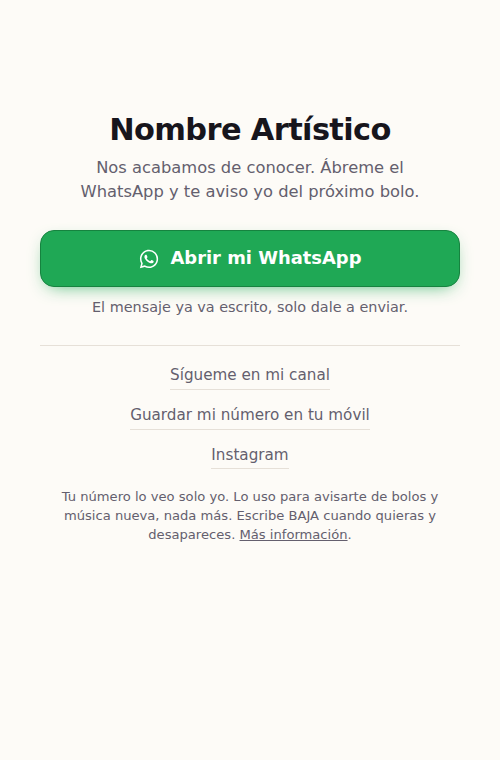
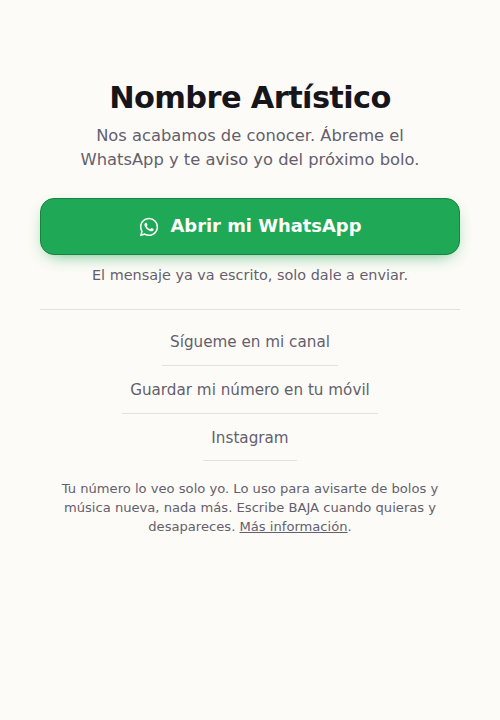
La landing y la biografía de Instagram entran en el sistema, con su propio conteo
El público que ya tiene no estaba usando esto. Ahora la landing publicada y la
biografía de Instagram llevan a la misma página con un código propio, así que se
puede comparar de dónde llega la gente. El de Instagram importa especialmente:
quien lo pulsa aterriza dentro del navegador de Instagram, donde un enlace a
wa.me no abre la aplicación y la conversión es casi cero; la página lo detecta y
ofrece el número para copiar.

Y los enlaces de segundo plano pasan a 44 px de alto: se pulsan con el pulgar,
de pie y sin mirar, que es como se usa esto de verdad.

Claude-Session: https://claude.ai/code/session_01AHqWHcwNA4Erp9EJ35SaMY

Changed region(s): [[0.06, 0.1222, 0.93, 0.4278], [0.12, 0.4583, 0.87, 0.7639]]

diff --git a/contacto-artista/web/estilo.css b/contacto-artista/web/estilo.css
@@ -84,27 +84,32 @@ header { text-align: center; margin-bottom: 26px; }
    compite. Si compitiera, una parte del público guardaría el contacto sin
    escribir, que es justo el caso en que ella no se lleva nada. */
 .segundo-plano {
-  margin-top: 26px;
-  padding-top: 18px;
+  margin-top: 22px;
+  padding-top: 10px;
   border-top: 1px solid var(--linea);
   display: flex;
   flex-direction: column;
-  gap: 14px;
+  gap: 2px;
   align-items: center;
 }
 
+/* Los enlaces de segundo plano siguen siendo secundarios, pero se pueden pulsar
+   con el pulgar: 44 px de alto es el mínimo para acertar sin mirar, que es como
+   se usa esto en un pasillo a oscuras. */
 a.suave {
   color: var(--suave);
   text-decoration: none;
   font-size: 0.95rem;
+  padding: 11px 8px;
+  display: inline-flex;
+  align-items: center;
+  min-height: 44px;
   border-bottom: 1px solid var(--linea);
-  padding-bottom: 2px;
-  min-height: 24px;
 }
 
 a.suave:hover { color: var(--tinta); }
 
-#secundarios { display: flex; flex-direction: column; gap: 14px; align-items: center; }
+#secundarios { display: flex; flex-direction: column; gap: 2px; align-items: center; }
 
 a.boton {
   display: flex;

diff --git a/contacto-artista/herramientas/construir.js b/contacto-artista/herramientas/construir.js
@@ -163,6 +163,10 @@ function escribirQR(config, salida) {
     const url = config.urlDeSoporte(soporte.clave);
     urls.push({ soporte, url });
 
+    // Los soportes de tipo "enlace" (el botón de su web, la biografía de
+    // Instagram) no se imprimen: son una URL que se pega en otro sitio.
+    if (soporte.tipo === 'enlace') continue;
+
     // Los soportes NFC no llevan QR propio: el tag guarda la URL directamente.
     // Pero se genera igual, porque en la práctica cada pieza NFC acaba llevando
     // un QR impreso al lado para quien no tenga NFC o no sepa usarlo.
@@ -188,6 +192,8 @@ function escribirQR(config, salida) {
     ...urls.map(({ soporte, url }) =>
       soporte.titulo + ' (' + soporte.tipo.toUpperCase() + ')\n  ' + url + '\n'
     ),
+    'Los de tipo ENLACE no se imprimen: se pegan donde toque (el botón de la web,',
+    'la biografía de Instagram). Los de tipo NFC se graban en el tag.',
     'Cómo se graban los NFC: docs/04-nfc.md'
   ].join('\n');
   fs.writeFileSync(path.join(carpeta, 'urls.txt'), texto, 'utf8');

diff --git a/contacto-artista/config.js b/contacto-artista/config.js
@@ -67,7 +67,12 @@ const config = {
     { clave: 'merch',    titulo: 'Mesa de merchandising',        tipo: 'qr' },
     { clave: 'pulsera',  titulo: 'Pulsera NFC',                  tipo: 'nfc' },
     { clave: 'chapa',    titulo: 'Chapa o pegatina NFC',         tipo: 'nfc' },
-    { clave: 'funda',    titulo: 'NFC en la funda del móvil',    tipo: 'nfc' }
+    { clave: 'funda',    titulo: 'NFC en la funda del móvil',    tipo: 'nfc' },
+
+    // Estos no llevan QR: son enlaces. Se listan igual para que el contador los
+    // admita y se pueda comparar de dónde llega la gente.
+    { clave: 'web',       titulo: 'Botón en su landing',          tipo: 'enlace' },
+    { clave: 'instagram', titulo: 'Biografía de Instagram',       tipo: 'enlace' }
   ],
 
   // ---------------------------------------------------------------- mensajes

diff --git a/contacto-artista/docs/03-montaje-web.md b/contacto-artista/docs/03-montaje-web.md
@@ -59,6 +59,11 @@ public_html/            ← la landing que ya existe, no se toca
     └── contar.php
 ```
 
+**Si el hosting no tiene PHP** (alojamiento estático, Netlify, GitHub Pages),
+poner `opciones.medir` a `false` en `config.js` y no subir `contar.php`. Todo lo
+demás funciona igual; el recuento se saca entonces de los registros de acceso del
+servidor, filtrando por el parámetro `?f=`.
+
 `contar.php` se **genera** a partir de `servidor/contar.php`: la lista de soportes
 que admite sale de `config.js`, para que no puedan descuadrarse. No se edita el de
 `web/`, se edita `config.js` y se vuelve a generar.
@@ -101,6 +106,21 @@ AddType text/vcard .vcf
    otra aplicación».
 
 Hasta que el punto 8 no salga bien, no se imprime nada.
+
+## 5. Enlazarla desde donde ya hay público
+
+La página no es solo para el bolo. Con un código distinto cada sitio, y así se
+sabe de dónde llega la gente:
+
+| Dónde | Enlace |
+|---|---|
+| Un botón en la landing que ya existe | `https://SUBDOMINIO/hola/?f=web` |
+| La biografía de Instagram | `https://SUBDOMINIO/hola/?f=instagram` |
+
+Con el de Instagram hay un detalle que importa: quien lo pulse llegará **dentro
+del navegador de Instagram**, donde el enlace de WhatsApp no abre la aplicación.
+La página lo detecta y enseña el aviso con el número para copiar. Por eso este
+enlace nunca debe apuntar directamente a `wa.me`: ahí la conversión es casi cero.
 
 ---
 
